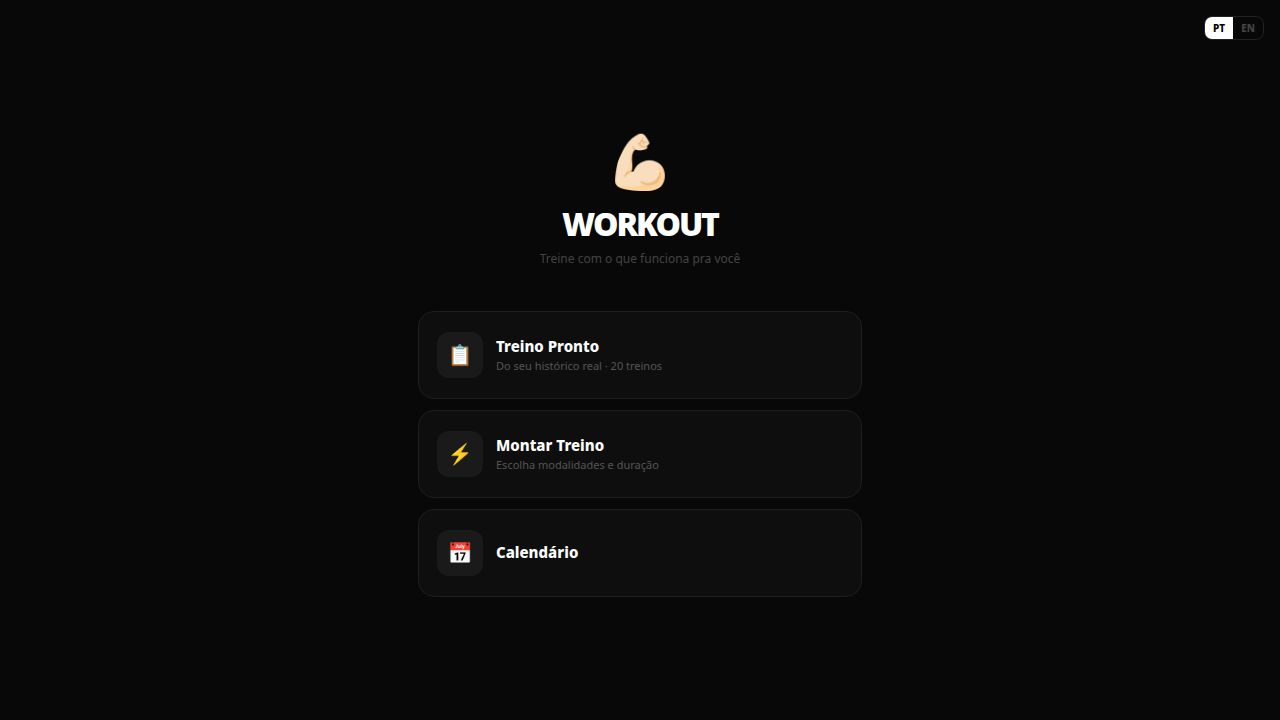
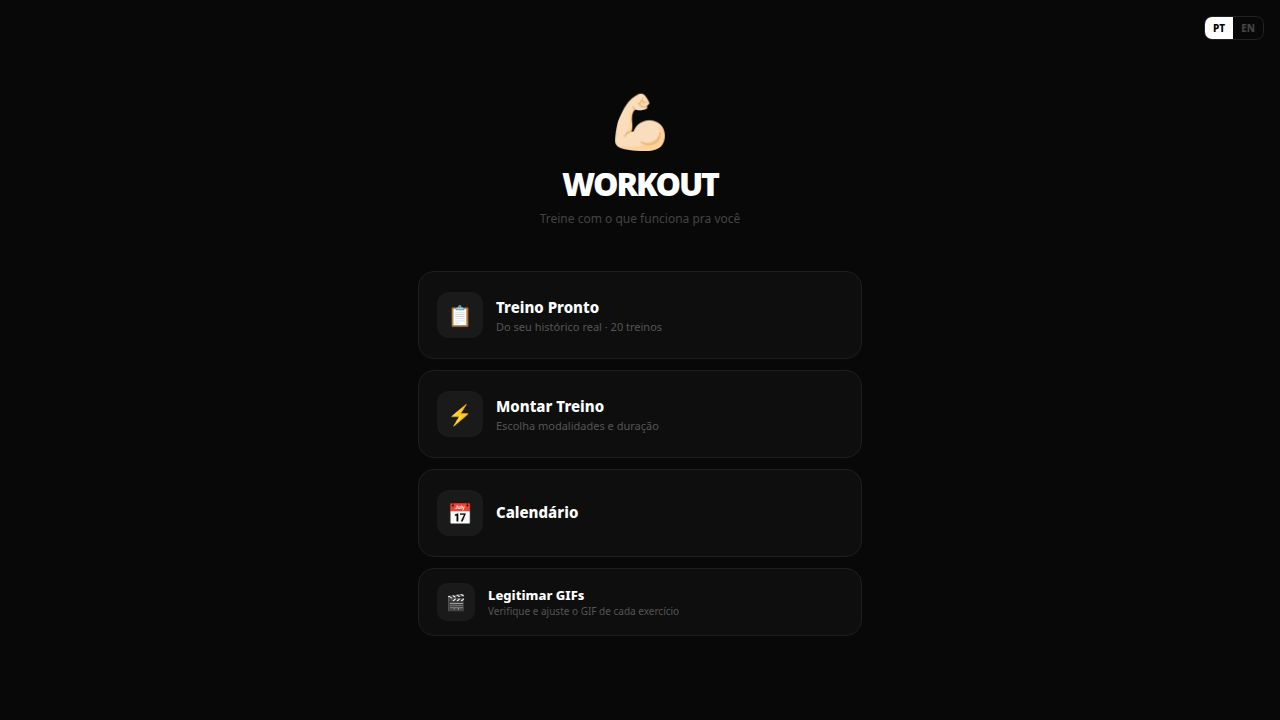
Allow saving custom exercise URLs and fix media display
Fixes issues with saving custom URLs for exercises with spaces in their names and ensures custom GIF URLs are correctly displayed by adjusting the media fetching logic.

Replit-Commit-Author: Agent
Replit-Commit-Session-Id: b472f77c-132b-44ef-a0a9-d78791b5cf47
Replit-Commit-Checkpoint-Type: full_checkpoint
Replit-Commit-Event-Id: 8f7480e8-6122-4f76-afb4-2d82b9b0655f
Replit-Commit-Screenshot-Url: https://storage.googleapis.com/screenshot-production-us-central1/add78b8a-6157-4ede-91df-5e775cf77eb5/b472f77c-132b-44ef-a0a9-d78791b5cf47/r9mR4p6
Replit-Helium-Checkpoint-Created: true

diff --git a/artifacts/workout/index.html b/artifacts/workout/index.html
@@ -515,6 +515,7 @@ const S={screen:'home',libFilter:[],setupSel:[],setupDur:null,workout:null,wMods
    Nunca exibido para exercícios de Cardio. */
 const _media={}; /* normalizedName -> {state:'loading'|'ok'|'miss'|'err', data} */
 function _normName(s){return (s||'').toLowerCase().normalize('NFD').replace(/[\u0300-\u036f]/g,'').replace(/[^a-z0-9 ]/g,' ').replace(/\s+/g,' ').trim();}
+function _safeId(k){return k.replace(/\s+/g,'_').replace(/[^a-z0-9_]/g,'_');}
 function fetchMedia(ptName){
   const k=_normName(ptName);
   if(_media[k])return;
@@ -524,7 +525,7 @@ function fetchMedia(ptName){
     .then(({ok,status,j})=>{
       if(!ok){
         _media[k]={state:status===503?'noapi':'err',msg:j&&j.message||j&&j.error||''};
-      }else if(j.exerciseId&&j.gifUrl){
+      }else if(j.gifUrl){
         _media[k]={state:'ok',data:j};
       }else{
         _media[k]={state:'miss'};
@@ -600,7 +601,7 @@ function legitFetchCands(k,name){
 }
 function legitDoSearch(k){
   const row=legitRows().find(r=>r.key===k);if(!row)return;
-  const inp=document.getElementById('lq_'+k);if(inp)S.legitQuery[k]=inp.value;
+  const inp=document.getElementById('lq_'+_safeId(k));if(inp)S.legitQuery[k]=inp.value;
   legitFetchCands(k,row.name);
 }
 function legitPick(k,id){
@@ -615,16 +616,16 @@ function legitClear(k){
 }
 function legitSaveCustom(k){
   const row=legitRows().find(r=>r.key===k);if(!row)return;
-  const inp=document.getElementById('lcu_'+k);if(!inp)return;
+  const inp=document.getElementById('lcu_'+_safeId(k));if(!inp)return;
   const url=inp.value.trim();
   if(url&&!/^https?:\/\//i.test(url)){alert(t('legitCustomInvalid'));return;}
   fetch('/api/exercise-media/custom-url',{method:'POST',headers:{'Content-Type':'application/json'},body:JSON.stringify({name:row.name,url:url||null})})
-    .then(()=>{delete _media[k];fetchMedia(row.name);});
+    .then(()=>{delete _media[k];fetchMedia(row.name);render();});
 }
 function legitClearCustom(k){
   const row=legitRows().find(r=>r.key===k);if(!row)return;
   fetch('/api/exercise-media/custom-url',{method:'POST',headers:{'Content-Type':'application/json'},body:JSON.stringify({name:row.name,url:null})})
-    .then(()=>{delete _media[k];fetchMedia(row.name);});
+    .then(()=>{delete _media[k];fetchMedia(row.name);render();});
 }
 function legitScreen(){
   const rows=legitRows();
@@ -675,14 +676,14 @@ function legitScreen(){
       const customBlock='<div style="margin-top:9px;padding:8px 9px;border-radius:9px;background:#03101a;border:1px solid #0a2a3a">'
         +'<div style="font-size:9px;font-weight:700;color:#7DD3FC;margin-bottom:5px;letter-spacing:.5px">'+t('legitCustomLabel')+'</div>'
         +'<div style="display:flex;gap:5px;flex-wrap:wrap">'
-        +'<input id="lcu_'+r.key+'" value="'+curUrl+'" placeholder="'+t('legitCustomPh')+'" onkeydown="if(event.key===\'Enter\')legitSaveCustom(\''+r.key+'\')" style="flex:1;min-width:160px;padding:7px 9px;border-radius:8px;border:1px solid #0a2a3a;background:#020a12;color:#fff;font-size:11px">'
+        +'<input id="lcu_'+_safeId(r.key)+'" value="'+curUrl+'" placeholder="'+t('legitCustomPh')+'" onkeydown="if(event.key===\'Enter\')legitSaveCustom(\''+r.key+'\')" style="flex:1;min-width:160px;padding:7px 9px;border-radius:8px;border:1px solid #0a2a3a;background:#020a12;color:#fff;font-size:11px">'
         +'<button onclick="legitSaveCustom(\''+r.key+'\')" style="padding:7px 11px;border-radius:8px;border:1px solid #0a3a55;background:#03182a;color:#7DD3FC;font-size:10px;font-weight:700;cursor:pointer">'+t('legitCustomSave')+'</button>'
         +(curUrl?'<button onclick="legitClearCustom(\''+r.key+'\')" style="padding:7px 11px;border-radius:8px;border:1px solid #4a1010;background:#1a0606;color:#FF6B6B;font-size:10px;font-weight:700;cursor:pointer">'+t('legitCustomClear')+'</button>':'')
         +'</div></div>';
       panel='<div style="margin-top:9px;padding:9px;border-radius:10px;background:#070707;border:1px solid #1a1a1a">'
         +customBlock
         +'<div style="display:flex;gap:5px;margin:9px 0 7px">'
-        +'<input id="lq_'+r.key+'" value="'+q+'" placeholder="'+t('legitSearchPh')+'" onkeydown="if(event.key===\'Enter\')legitDoSearch(\''+r.key+'\')" style="flex:1;padding:7px 9px;border-radius:8px;border:1px solid #222;background:#0e0e0e;color:#fff;font-size:11px">'
+        +'<input id="lq_'+_safeId(r.key)+'" value="'+q+'" placeholder="'+t('legitSearchPh')+'" onkeydown="if(event.key===\'Enter\')legitDoSearch(\''+r.key+'\')" style="flex:1;padding:7px 9px;border-radius:8px;border:1px solid #222;background:#0e0e0e;color:#fff;font-size:11px">'
         +'<button onclick="legitDoSearch(\''+r.key+'\')" style="padding:7px 11px;border-radius:8px;border:1px solid #333;background:#161616;color:#fff;font-size:10px;font-weight:700;cursor:pointer">'+t('legitSearch')+'</button>'
         +(m&&m.data&&m.data.source==='override'?'<button onclick="legitClear(\''+r.key+'\')" style="padding:7px 11px;border-radius:8px;border:1px solid #4a1010;background:#1a0606;color:#FF6B6B;font-size:10px;font-weight:700;cursor:pointer">'+t('legitClear')+'</button>':'')
         +'</div>'